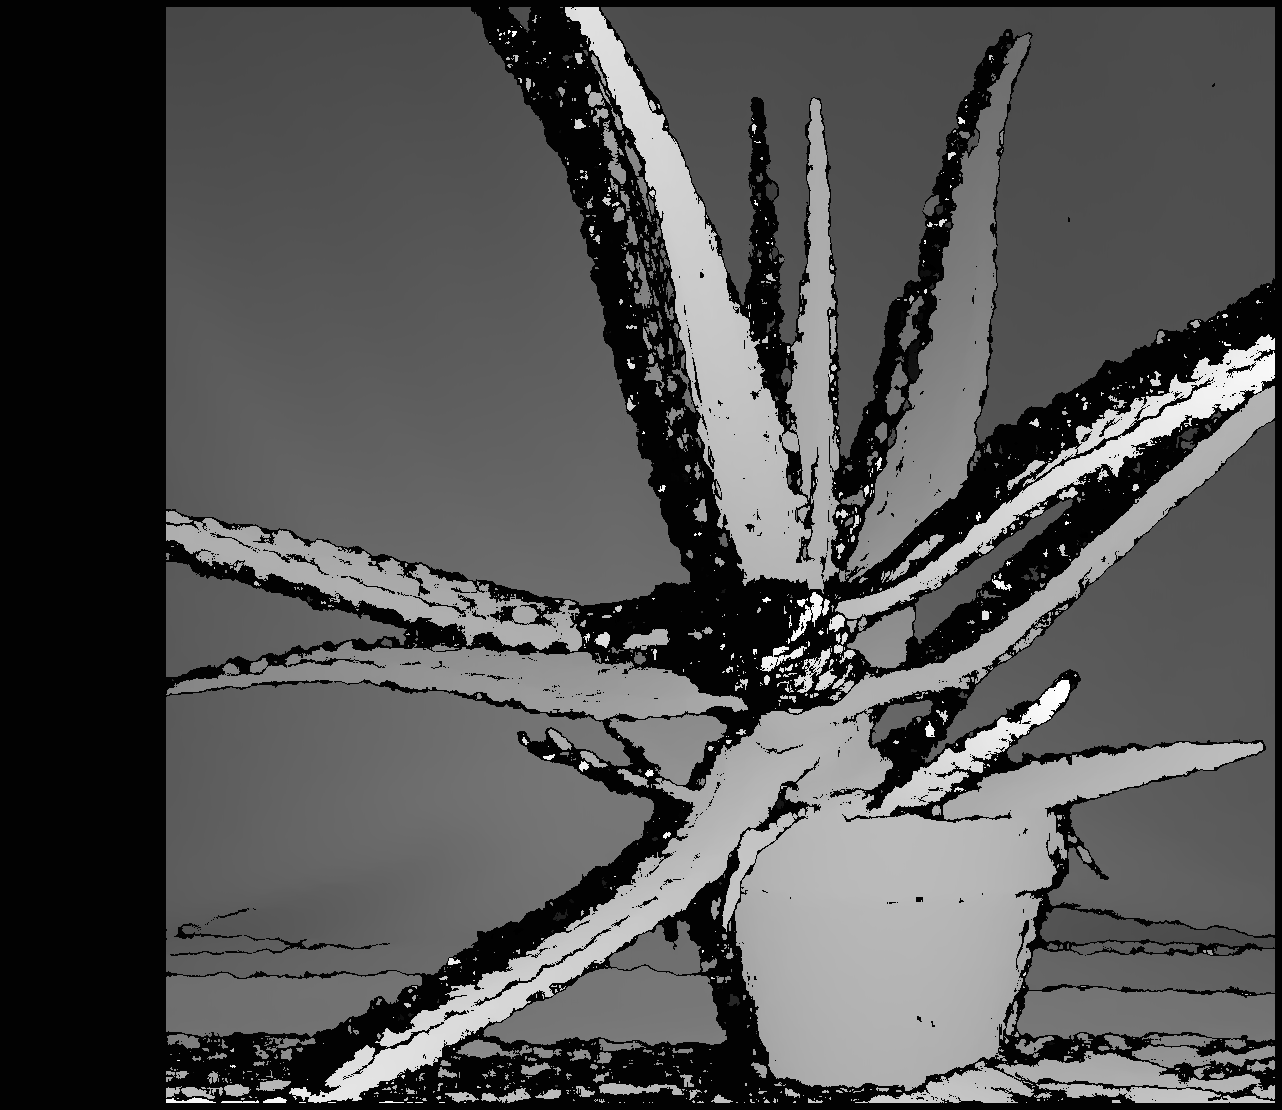
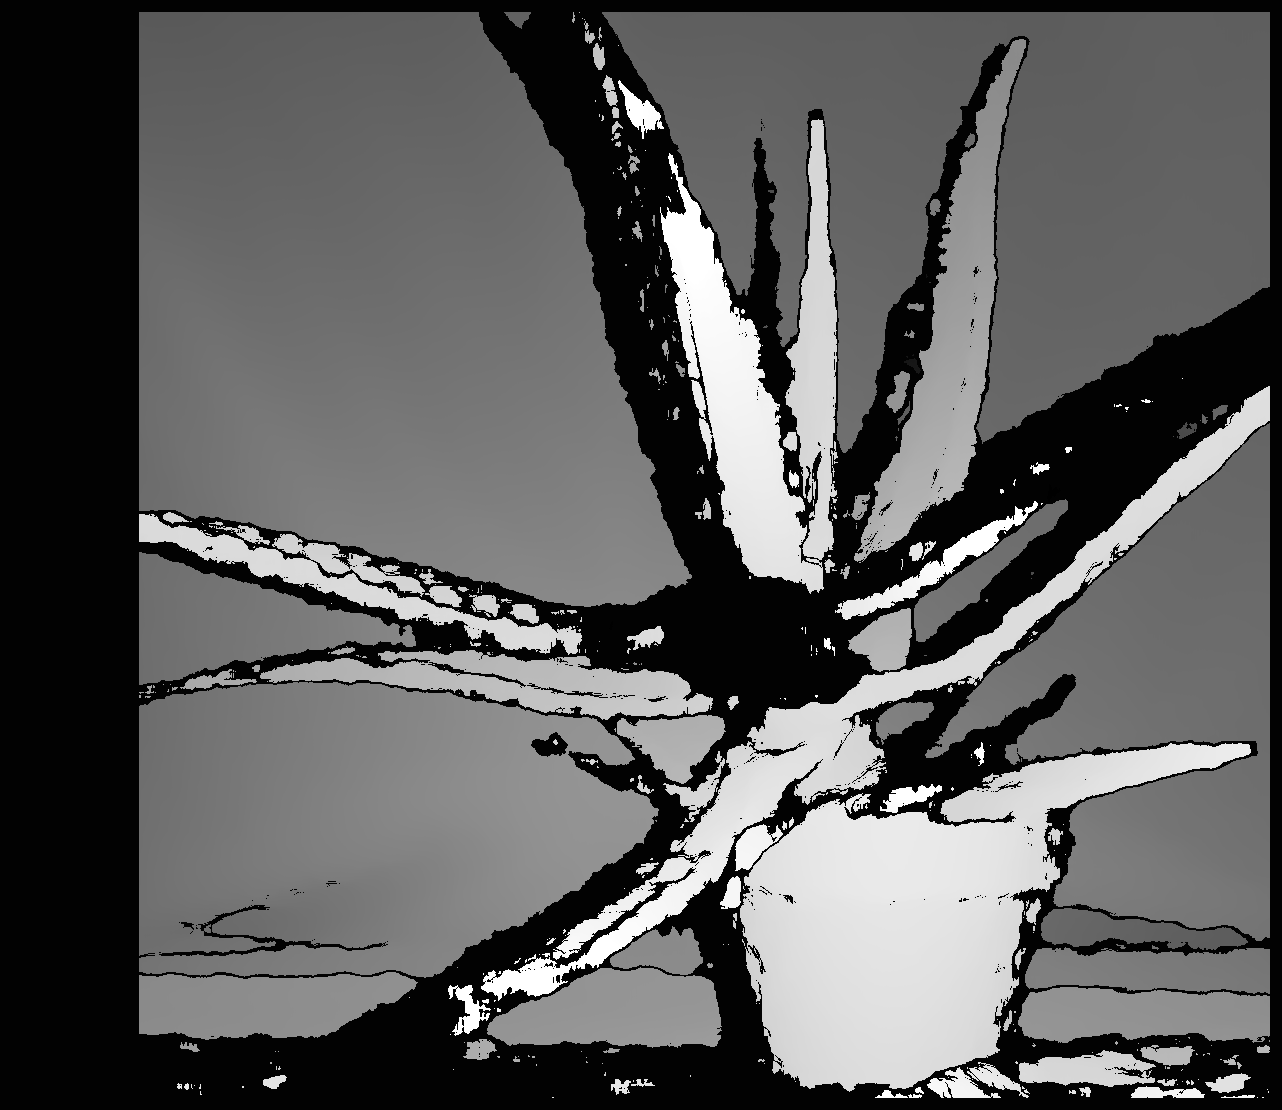
Comecei requisito 2

diff --git a/src/pd3.py b/src/pd3.py
@@ -1,3 +1,6 @@
+#!/usr/bin/env python
+# -*- coding: utf-8 -*-
+
 import cv2
 import numpy as np
 import sys
@@ -5,10 +8,24 @@ import argparse
 import time
 import pdb
 
-DEFAULT_WINDOW = 15
+DEFAULT_WINDOW = 25
 FOCAL_DISTANCE = 3740 #px
 BASELINE = 160 #mm
 THRESHOLD = 50
+MORPHEUS_LEFT_CAMERA = np.array([[6704.926882, 0.000103,    738.251932],
+                                 [0.,          6705.241311, 457.560286],
+                                 [0.,          0.,          1.]])
+MORPHEUS_LEFT_ROTATION = np.array([[0.70717199,  0.70613396, -0.03581348],
+                                   [0.28815232, -0.33409066, -0.89741388],
+                                   [-0.64565936,  0.62430623, -0.43973369]])
+MORPHEUS_LEFT_TRANSLATION = np.array([-532.285900, 207.183600, 2977.408000])
+MORPHEUS_RIGHT_CAMERA = np.array([[6682.125964, 0.000101,    875.207200],
+                                 [0.,          6681.475962, 357.700292],
+                                 [0.,          0.,          1.]])
+MORPHEUS_RIGHT_ROTATION = np.array([[0.48946344,  0.87099159, -0.04241701],
+                                   [0.33782142, -0.23423702, -0.91159734],
+                                   [-0.80392924,  0.43186419, -0.40889007]])
+MORPHEUS_RIGHT_TRANSLATION = np.array([-614.549000, 193.240700, 3242.754000])
 
 
 def check_positive_odd(value):
@@ -27,6 +44,8 @@ group.add_argument("--r2", action="store_true",
                     help="Requisito 2")
 group.add_argument("--r3", action="store_true",
                     help="Requisito 3")
+parser.add_argument("--bonus", action="store_true",
+                    help="Mapa de profundidade pela matriz fundamental")
 parser.add_argument("--img_l", nargs="?", default=None, metavar="path/to/file",
                     help="Caminho para a imagem da esquerda")
 parser.add_argument("--img_r", nargs="?", default=None, metavar="path/to/file",
@@ -45,20 +64,13 @@ def openImage(file):
         sys.exit("Não foi possível abrir imagem")
     return img
 
-def saveImgMaps(img,typeMap):
-    pass
-
-
-def normalize(img):
-    #function
-    return img
 
 def findPixelMatch(leftImage, rightImage, windowSize):
     #para o pixel x y imgL achar o correspondente na imgR 
     #    Se não hover correspondencia retorna none
     #    Se houver retorna a coordenada da correspondencia
     #function
-    stereo = cv2.StereoBM_create(numDisparities=160, blockSize=windowSize)
+    stereo = cv2.StereoBM_create(numDisparities=128, blockSize=windowSize)
     lGray = cv2.cvtColor(leftImage, cv2.COLOR_BGR2GRAY)
     rGray = cv2.cvtColor(rightImage, cv2.COLOR_BGR2GRAY)
     return stereo.compute(lGray,rGray)
@@ -69,8 +81,18 @@ def getWorldCoords(leftImage, corMatrix):
     y_coords = np.arange(0, leftImage.shape[0]).reshape(leftImage.shape[0], 1)
     x = BASELINE * (2 * x_coords - corMatrix) / (2 * corMatrix)
     y = BASELINE * (2 * y_coords) / (2 * corMatrix)
-    z = BASELINE * FOCAL_DISTANCE  / (2 * corMatrix)
-    return np.stack([x, y, z], axis=-1) 
+    z = BASELINE * FOCAL_DISTANCE  /   corMatrix
+    return x, y, z
+
+
+def normalize(matrix):
+    return cv2.normalize(matrix, dst=np.zeros(matrix.shape),
+                         alpha=0, beta=255, norm_type=cv2.NORM_MINMAX,
+                         dtype=cv2.CV_8U)
+
+def saveImage(name, image):
+    print("Salvando {}...".format(name))
+    cv2.imwrite(name, image)
 
 def createDepthMap(imageL, imageR, windowSize):
     if windowSize == DEFAULT_WINDOW:
@@ -84,29 +106,39 @@ def createDepthMap(imageL, imageR, windowSize):
         leftImage = openImage(imageL)
         rightImage = openImage(imageR)
     corMatrix = findPixelMatch(leftImage, rightImage, windowSize)
-    worldCoords = getWorldCoords(leftImage, corMatrix)
-    z = worldCoords[:, :, -1]
+    x, y, z = getWorldCoords(leftImage, corMatrix)
     z[z == np.inf] = -np.inf
     z[z == -np.inf] = np.max(z)
-    worldCoords[worldCoords == np.inf] = np.max(worldCoords)
-    dispMatrix = cv2.normalize(np.abs(corMatrix), dst=np.zeros(corMatrix.shape),
-                               alpha=0, beta=255, norm_type=cv2.NORM_MINMAX,
-                               dtype=cv2.CV_8U)
-    depthMatrix = cv2.normalize(z, dst=np.zeros(z.shape),
-                               alpha=0, beta=255, norm_type=cv2.NORM_MINMAX,
-                               dtype=cv2.CV_8U)
-    print("Salvando disp image em data...")
-    cv2.imwrite(imageL.rstrip("L.png") + "_disp.png", dispMatrix)
-    print("Salvando depth image em data...")
-    cv2.imwrite(imageL.rstrip("L.png") + "_depth.png", depthMatrix)
+    dispMatrix = normalize(np.abs(corMatrix))
+    depthMatrix = normalize(z)
+    saveImage(imageL.rstrip("L.png") + "_disp.png", dispMatrix)
+    saveImage(imageL.rstrip("L.png") + "_depth.png", depthMatrix)
 
+
+def getRotation(r1, r2):
+    return np.matmul(r1.T, r2)
+
+
+def getTranslation(r1, t1, t2):
+    return np.dot(r1.T, t2) - np.dot(r1.T, t1)
+
+
+def depthFromHomography():
+    leftImage = openImage("../data/MorpheusL.jpg")
+    rightImage = openImage("../data/MorpheusR.jpg")
+    rotation = getRotation(MORPHEUS_LEFT_ROTATION, MORPHEUS_RIGHT_ROTATION)
+    translation = getTranslation(MORPHEUS_LEFT_ROTATION, MORPHEUS_LEFT_TRANSLATION.T, MORPHEUS_RIGHT_TRANSLATION.T)
+    r1, r2, p1, p2, q = cv2.stereoRectify(MORPHEUS_LEFT_CAMERA, MORPHEUS_RIGHT_CAMERA, None, None, leftImage.shape[0:2], rotation, translation)
 
 def main(r1, r2, r3, imageL=None,
-         imageR=None, windowSize=DEFAULT_WINDOW):
+         imageR=None, windowSize=DEFAULT_WINDOW, bonus=None):
     if r1:
         return createDepthMap(imageL, imageR, windowSize)
     elif r2:
-        print("r2")
+        if bonus:
+            pass
+        else:
+            return depthFromHomography()
     elif r3:
         print("r3")
 
@@ -114,4 +146,4 @@ def main(r1, r2, r3, imageL=None,
 if __name__ == "__main__":
     args = parser.parse_args()
     main(args.r1, args.r2, args.r3, args.img_l, args.img_r,
-         args.windowSize)
+         args.windowSize, args.bonus)
